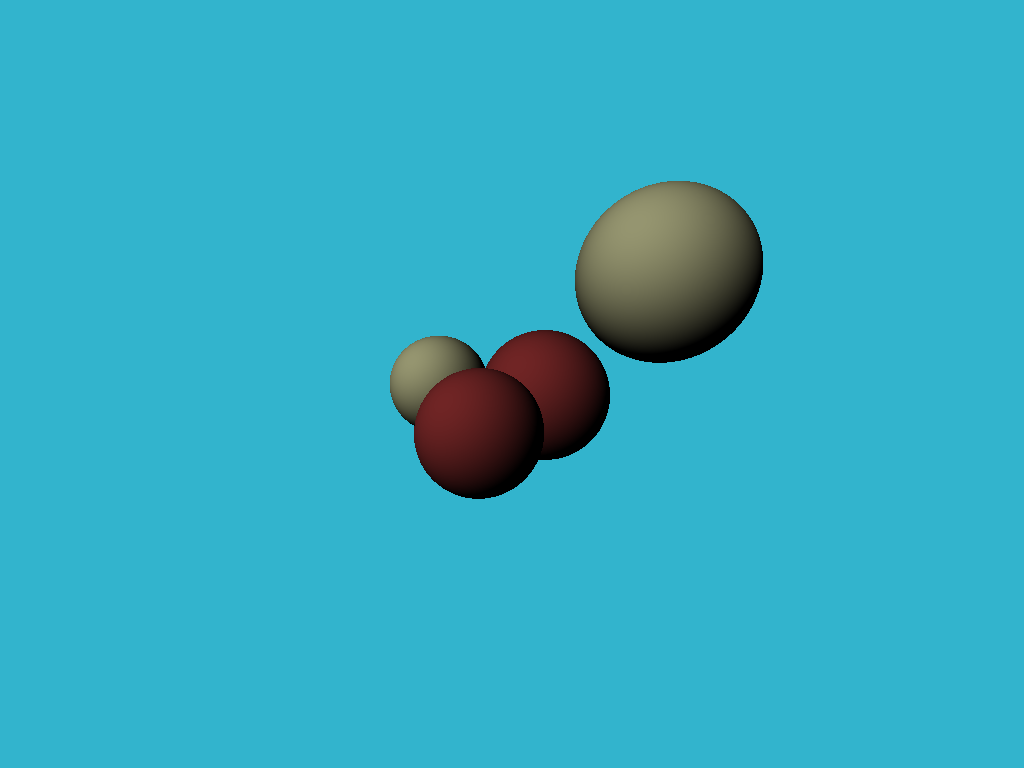
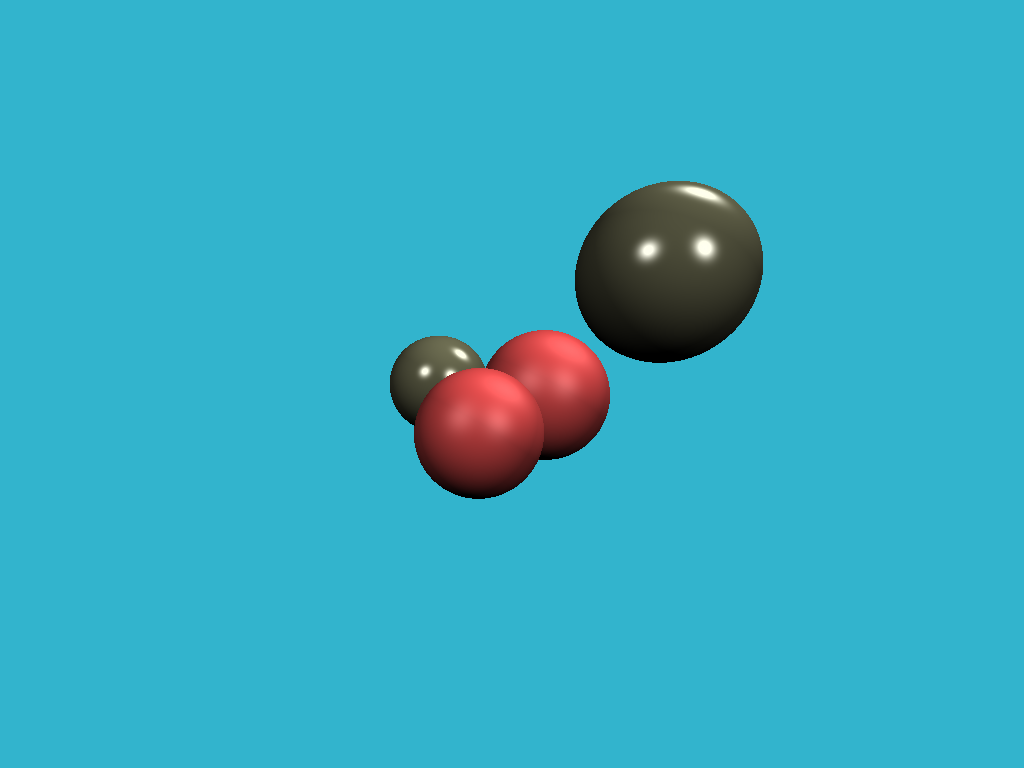
Step 5: Specular lightning, using Phong's reflection model

Changed region(s): [[0.375, 0.2188, 0.75, 0.6562]]

diff --git a/main.go b/main.go
@@ -20,7 +20,9 @@ type Light struct {
 }
 
 type Materials struct {
+    Albedo []float64
 	DiffusedColor color.RGBA
+    SpecularExponent float64
 }
 
 type Sphere struct {
@@ -74,12 +76,23 @@ func cast_ray(orig, dir r3.Vector, spheres []Sphere, lights []Light) color.RGBA 
 		return color.RGBA{50, 180, 205, 255}
 	}
 	//return material.DiffusedColor
-    diffuse_light_intensity := 0.0
+    diffuse_light_intensity, specular_light_intensity := 0.0, 0.0
     for i:=0; i<len(lights); i++ {
         light_dir := r3.Vector.Normalize(r3.Vector.Sub(lights[i].Position, point))
+
         diffuse_light_intensity += lights[i].Intensity * max(0, r3.Vector.Dot(light_dir, N))
+        m_light_dir := r3.Vector.Mul(light_dir, -1.)
+        specular_light_intensity += math.Pow( max(0., r3.Vector.Dot(r3.Vector.Mul(Reflect(m_light_dir, N), -1), dir)), material.SpecularExponent) * lights[i].Intensity
     }
-    return multiplyColorIntensity(material.DiffusedColor, diffuse_light_intensity)
+    //return multiplyColorIntensity(material.DiffusedColor, diffuse_light_intensity)
+    res1x := float64(material.DiffusedColor.R) * diffuse_light_intensity * material.Albedo[0]
+    res1y := float64(material.DiffusedColor.G) * diffuse_light_intensity * material.Albedo[0]
+    res1z := float64(material.DiffusedColor.B) * diffuse_light_intensity * material.Albedo[0]
+    black := color.RGBA{255, 255, 255, 255}
+    res2x := float64(black.R) * specular_light_intensity * material.Albedo[1]
+    res2y := float64(black.G) * specular_light_intensity * material.Albedo[1]
+    res2z := float64(black.B) * specular_light_intensity * material.Albedo[1]
+    return AddColors(r3.Vector{res1x, res1y, res1z}, r3.Vector{res2x, res2y, res2z})
 }
 
 func render(spheres []Sphere, lights []Light) {
@@ -107,10 +120,37 @@ func render(spheres []Sphere, lights []Light) {
 	fmt.Println("Hey!")
 }
 
+
+func max(a, b float64) float64 {
+    if a >= b {
+        return a
+    }
+    return b
+}
+
+func Reflect (I, N r3.Vector) r3.Vector {
+    return r3.Vector.Sub(I, r3.Vector.Mul(N,2.0*r3.Vector.Dot(I, N)))
+}
+
+func AddColors(i, j r3.Vector) color.RGBA {
+    r, g, b := i.X+j.X, i.Y+j.Y, i.Z+j.Z
+    maxc := float64(max(float64(r), max(float64(g), float64(b))))
+    if maxc > 255. {
+        return color.RGBA{uint8(float64(r)*255./maxc),
+                        uint8(float64(g)*255./maxc),
+                        uint8(float64(b)*255./maxc),
+                        255}
+    }
+    return color.RGBA{uint8(r),
+                    uint8(g),
+                    uint8(b),
+                    255}
+}
+
 func main() {
 
-	ivory := Materials{DiffusedColor: color.RGBA{100, 100, 75, 255}}
-	red_rubber := Materials{DiffusedColor: color.RGBA{75, 25, 25, 255}}
+	ivory := Materials{Albedo: []float64{0.3, 0.6}, DiffusedColor: color.RGBA{100, 100, 75, 255}, SpecularExponent: 50.}
+	red_rubber := Materials{Albedo: []float64{0.9, 0.1}, DiffusedColor: color.RGBA{75, 25, 25, 255}, SpecularExponent: 10.}
 
 	spheres := make([]Sphere, 0)
 	spheres = append(spheres, Sphere{r3.Vector{-3.0, 0.0, -16.0}, 2, ivory})
@@ -120,26 +160,16 @@ func main() {
 
     lights := make([]Light, 0)
     lights = append(lights, Light{r3.Vector{-20, 20, 20}, 1.5})
+    lights = append(lights, Light{r3.Vector{30, 50, -25}, 1.8})
+    lights = append(lights, Light{r3.Vector{30, 20, 30}, 1.7})
 
 	render(spheres, lights)
 }
 
 func multiplyColorIntensity(c color.RGBA, f float64) color.RGBA {
-
-    //if f < 0 || f > 1 {
-    //    panic("Intensity not between 0 and 1")
-    //    return c
-    //}
     return color.RGBA{uint8(float64(c.R)*f),
                       uint8(float64(c.G)*f),
                       uint8(float64(c.B)*f),
                       255}
-
 }
 
-func max(a, b float64) float64 {
-    if a >= b {
-        return a
-    }
-    return b
-}
